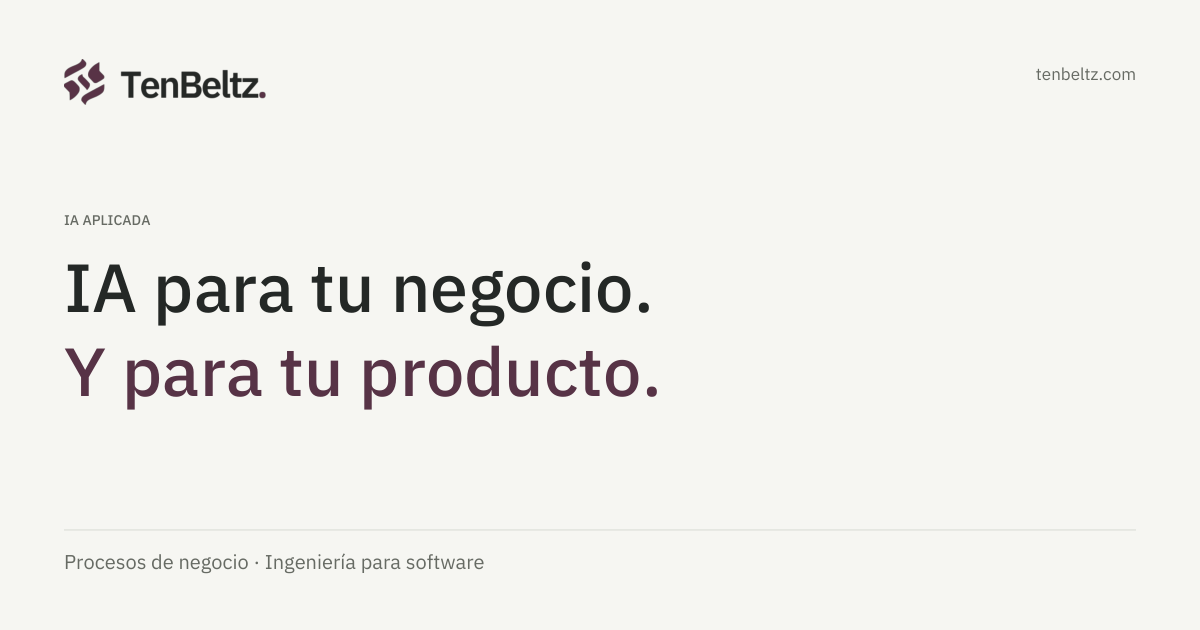
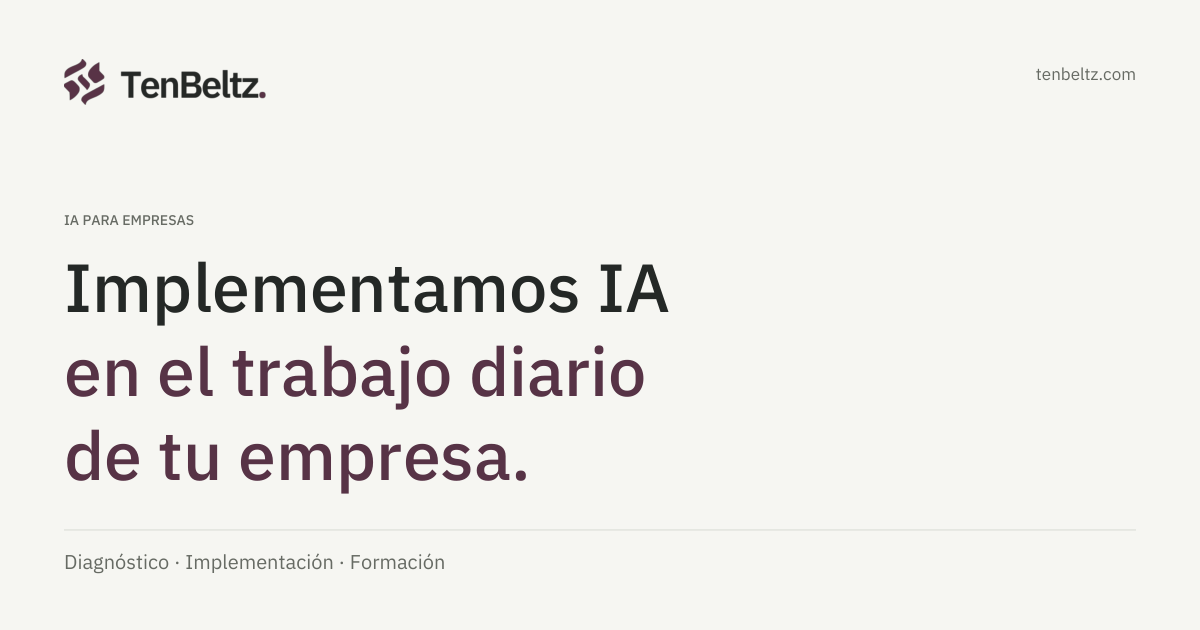
feat: align navigation and metadata with business AI implementation

diff --git a/src/i18n/es.ts b/src/i18n/es.ts
@@ -119,13 +119,13 @@ export const es = {
   'policies.changes.text': 'Beltz Dev SL puede actualizar esta política para adaptarla a cambios normativos, técnicos o funcionales del sitio. La versión vigente será siempre la publicada en esta página, junto con su fecha de última actualización.',
 
   // Who is behind
-  'whobehind.seo.title': 'Ingeniero de IA para producción | TenBeltz',
-  'whobehind.seo.description': 'La persona detrás de TenBeltz: Aritz Jaber, ingeniero de IA para producción. Fiabilidad medible, observabilidad y control de costes.',
+  'whobehind.seo.title': 'Tu equipo para implementar IA | TenBeltz',
+  'whobehind.seo.description': 'Consultoría, dirección técnica y desarrollo para incorporar IA a los procesos de tu empresa. Conoce al equipo de TenBeltz.',
 
   'whobehind.hero.eyebrow': 'Quién está detrás',
   'whobehind.hero.title': 'Detrás de TenBeltz',
-  'whobehind.hero.highlight': 'hay una persona',
-  'whobehind.hero.subtitle': 'TenBeltz, fundada en 2024, no funciona como una consultora impersonal. Si trabajamos juntos, trabajas con la persona que define el caso, cuestiona el alcance y responde por los criterios técnicos del proyecto.',
+  'whobehind.hero.highlight': 'hay un equipo',
+  'whobehind.hero.subtitle': 'TenBeltz, fundada en 2024, combina consultoría, desarrollo e ingeniería de IA. Aritz lidera la definición del proyecto y el equipo implementa e integra la solución bajo su dirección técnica.',
   'whobehind.hero.name': 'Aritz Jaber Lopes',
   'whobehind.hero.role': 'Cofundador y líder técnico de TenBeltz',
   'whobehind.hero.location': 'Bilbao, España',
@@ -136,8 +136,8 @@ export const es = {
 
   'whobehind.story.eyebrow': 'Criterio',
   'whobehind.story.title': 'Qué aporto a los proyectos',
-  'whobehind.story.p1': 'No vengo a vender IA como una capa mágica. Mi trabajo consiste en aterrizar sistemas con restricciones reales: producto, datos, fiabilidad, coste y operación.',
-  'whobehind.story.p2': 'Ese criterio se ha formado construyendo y evaluando soluciones en distintos contextos, y hoy es lo que llevo a TenBeltz cuando ayudamos a equipos SaaS y consultoras a decidir qué merece la pena construir y cómo llevarlo a producción.',
+  'whobehind.story.p1': 'Mi trabajo consiste en entender el proceso, los datos y las herramientas de la empresa para definir una solución que el equipo pueda utilizar y revisar.',
+  'whobehind.story.p2': 'Ese criterio se ha formado construyendo y evaluando soluciones en distintos contextos. En TenBeltz lo aplicamos para ayudar a empresas de distintos sectores a elegir por dónde empezar e incorporar IA a su trabajo diario.',
   'whobehind.story.quote': 'Mi trabajo no es añadir IA por inercia. Es ayudar a decidir qué merece la pena construir y cómo hacerlo sin romper producto, margen ni confianza.',
   'whobehind.story.quoteAuthor': 'Aritz Jaber, cofundador de TenBeltz',
 

diff --git a/src/i18n/en.ts b/src/i18n/en.ts
@@ -119,13 +119,13 @@ export const en = {
   'policies.changes.text': 'Beltz Dev SL may update this policy to reflect regulatory, technical or functional changes to the site. The version in force will always be the one published on this page, together with its last updated date.',
 
   // Who is behind
-  'whobehind.seo.title': 'Production AI engineer behind TenBeltz | TenBeltz',
-  'whobehind.seo.description': 'The person behind TenBeltz: Aritz Jaber, production-AI engineer. Measurable reliability, observability, and cost control.',
+  'whobehind.seo.title': 'Your AI implementation team | TenBeltz',
+  'whobehind.seo.description': 'Consulting, technical leadership and development to bring AI into your business workflows. Meet the TenBeltz team.',
 
   'whobehind.hero.eyebrow': 'Who is behind',
   'whobehind.hero.title': 'Behind TenBeltz',
-  'whobehind.hero.highlight': 'there is a person',
-  'whobehind.hero.subtitle': 'TenBeltz, founded in 2024, does not operate like a faceless consultancy. If we work together, you work with the person who frames the case, challenges the scope, and stands behind the technical criteria of the project.',
+  'whobehind.hero.highlight': 'there is a team',
+  'whobehind.hero.subtitle': 'TenBeltz, founded in 2024, brings consulting, development and AI engineering together. Aritz leads project definition and the team implements and integrates the solution under his technical direction.',
   'whobehind.hero.name': 'Aritz Jaber Lopes',
   'whobehind.hero.role': 'Co-founder and technical lead at TenBeltz',
   'whobehind.hero.location': 'Bilbao, Spain',
@@ -136,8 +136,8 @@ export const en = {
 
   'whobehind.story.eyebrow': 'Judgment',
   'whobehind.story.title': 'What I bring to projects',
-  'whobehind.story.p1': 'I am not here to sell AI as a magic layer. My work is to turn systems into something operable under real constraints: product, data, reliability, cost, and day-to-day operation.',
-  'whobehind.story.p2': 'That judgment has been shaped by building and evaluating solutions across different contexts, and it is what I bring into TenBeltz when we help SaaS teams and consultancies decide what is worth building and how to carry it into production.',
+  'whobehind.story.p1': 'My work is to understand the company’s workflow, data and tools so we can define a solution the team can use and review.',
+  'whobehind.story.p2': 'That judgment has been shaped by building and evaluating solutions in different contexts. At TenBeltz we apply it to help businesses across sectors choose where to start and bring AI into their everyday work.',
   'whobehind.story.quote': 'My job is not to add AI by inertia. It is to help decide what is worth building and how to do it without damaging product, margin, or trust.',
   'whobehind.story.quoteAuthor': 'Aritz Jaber, co-founder of TenBeltz',
 

diff --git a/tools/marketing/dual-og.py b/tools/marketing/dual-og.py
@@ -1,4 +1,4 @@
-"""Render six social previews from existing TenBeltz brand assets.
+"""Render social previews from existing TenBeltz brand assets.
 Run with the brand-kit Python environment; no API or external assets.
 """
 from pathlib import Path
@@ -15,12 +15,12 @@ colors=identity['colors']
 for name,weight in [('Plex','Regular'),('PlexMedium','Medium')]:
  pdfmetrics.registerFont(TTFont(name,str(ROOT/f'brand/source/fonts/IBMPlexSans-{weight}.ttf')))
 copy={
- ('home','es'):('IA APLICADA', ['IA para tu negocio.', 'Y para tu producto.'], 'Procesos de negocio · Ingeniería para software'),
- ('home','en'):('APPLIED AI', ['AI for your business.', 'And your product.'], 'Business workflows · Software engineering'),
- ('business','es'):('PARA EMPRESAS Y PYMES', ['Menos trabajo repetitivo.', 'Más tiempo para tu negocio.'], 'Documentos · Informes · Herramientas conectadas'),
- ('business','en'):('FOR BUSINESSES AND SMEs', ['Less repetitive work.', 'More time for your business.'], 'Documents · Reports · Connected tools'),
- ('software','es'):('PARA EQUIPOS DE SOFTWARE', ['IA para tu producto.', 'Ingeniería a tu lado.'], 'Arquitectura · Evaluación · Integración'),
- ('software','en'):('FOR SOFTWARE TEAMS', ['AI for your product.', 'Engineering alongside you.'], 'Architecture · Evaluation · Integration'),
+ ('home','es'):('IA PARA EMPRESAS', ['Implementamos IA', 'en el trabajo diario', 'de tu empresa.'], 'Diagnóstico · Implementación · Formación'),
+ ('home','en'):('AI FOR BUSINESS', ['We implement AI', 'in your company’s', 'everyday work.'], 'Diagnosis · Implementation · Team training'),
+ ('business','es'):('SOLUCIONES DE IA', ['La IA aplicada', 'a tus procesos.'], 'Documentos · Administración · Atención · Conocimiento'),
+ ('business','en'):('AI SOLUTIONS', ['AI built around', 'your workflows.'], 'Documents · Administration · Service · Knowledge'),
+ ('software','es'):('INGENIERÍA DE IA', ['Experiencia técnica.', 'Aplicada a tu negocio.'], 'Integración · Evaluación · Adopción'),
+ ('software','en'):('AI ENGINEERING', ['Technical expertise.', 'Applied to your business.'], 'Integration · Evaluation · Adoption'),
 }
 for (audience,lang),(kicker,lines,footer) in copy.items():
  buf=BytesIO();c=canvas.Canvas(buf,pagesize=(1200,630))
